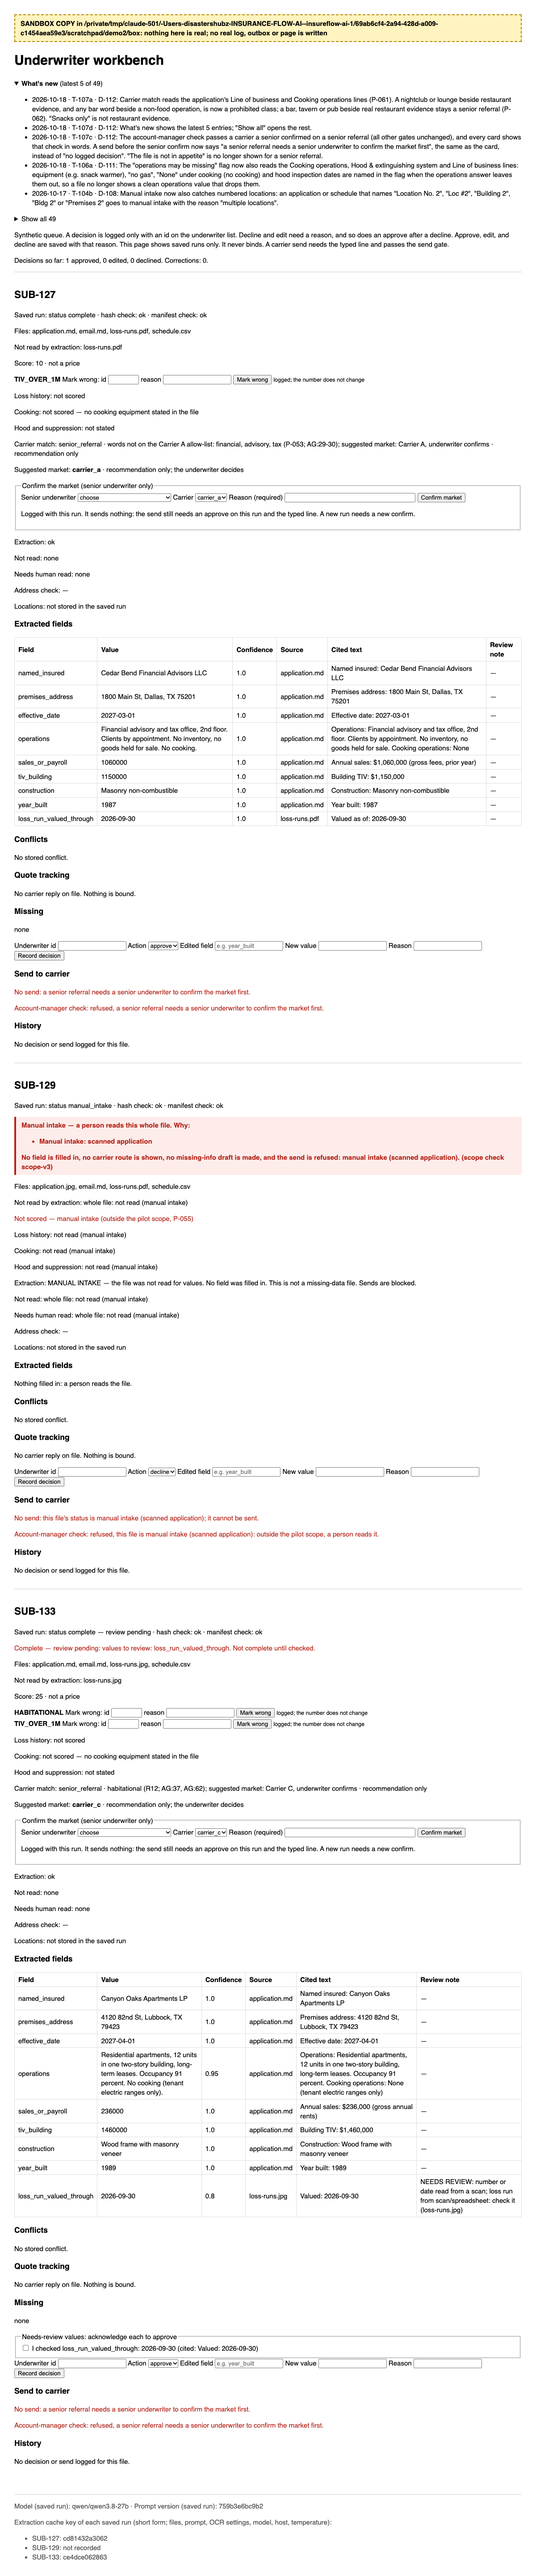
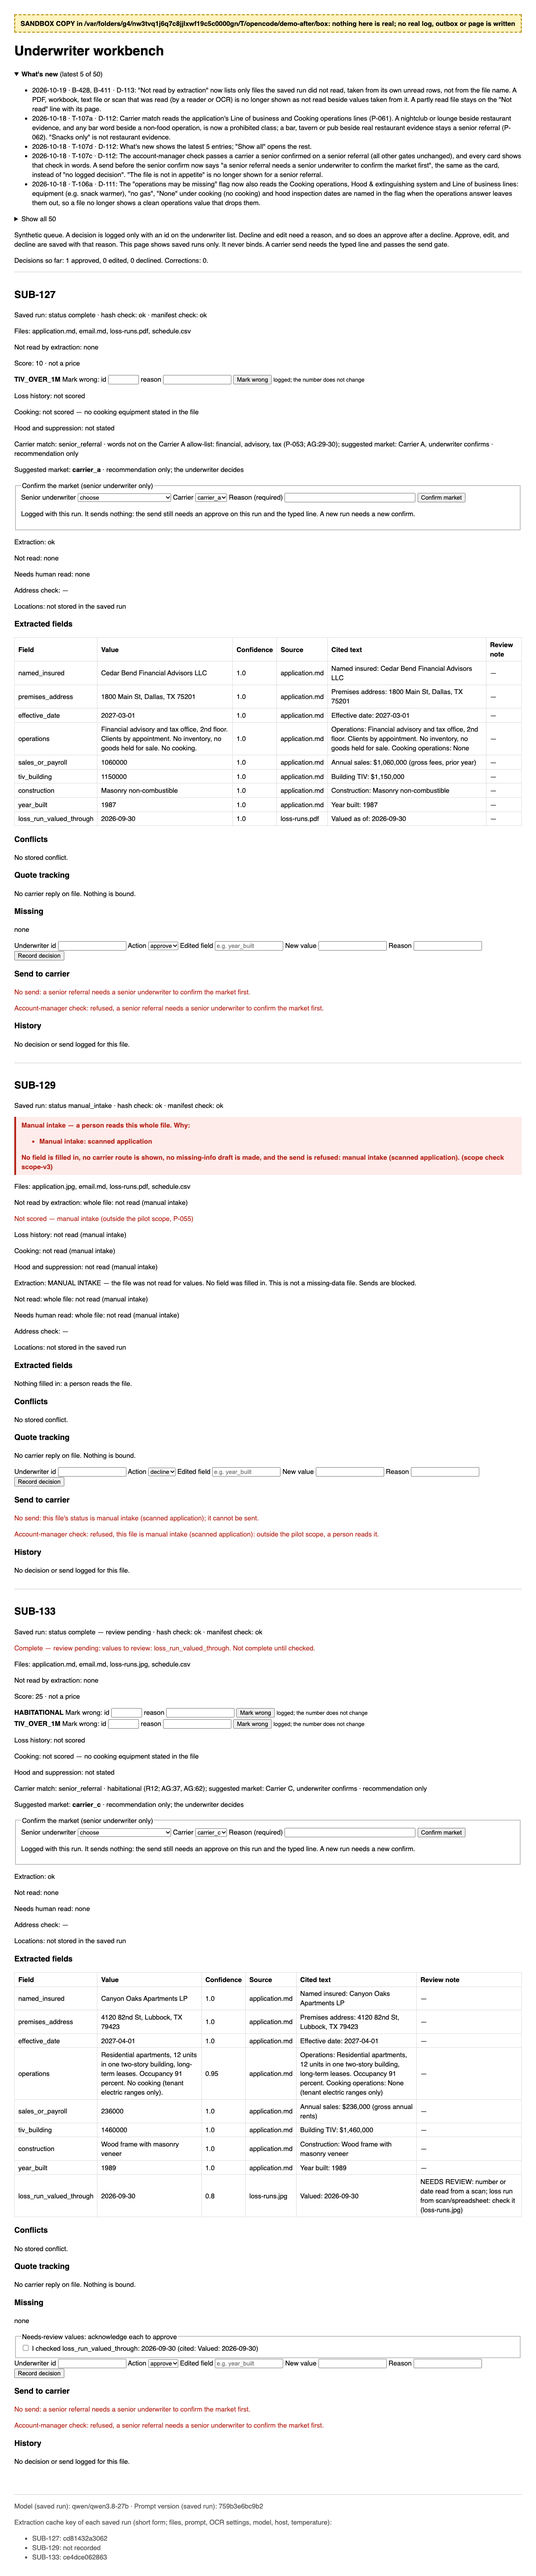
2026-10-19: code freeze for T-108 hold-out. B-428/B-411 fixed: the workbench "Not read by extraction" line now reads the saved run's unread rows (whole file) through helper not_read_by_extraction, never the file name, so a read PDF/workbook/scan (SUB-184 application.pdf, SUB-127/133 loss-runs.*) is 

Changed region(s): [[0.0308, 0.0, 0.9558, 0.0937]]

diff --git a/underwriting_pipeline/app/workbench.py b/underwriting_pipeline/app/workbench.py
@@ -41,6 +41,10 @@ BANNER = ""  # set by serve(); the sandbox screenshots label the page with it
 MESSAGES: dict[str, tuple[bool, str]] = {}  # submission -> (ok, plain-words result of the last action); shown once
 # D-065 item 5: one line per user-visible feature: date, task or proposal, decision number, what an underwriter sees.
 WHATS_NEW = (
+    ("2026-10-19", "B-428, B-411", "D-113",
+     "\"Not read by extraction\" now lists only files the saved run did not read, taken from its own unread rows, "
+     "not from the file name. A PDF, workbook, text file or scan that was read (by a reader or OCR) is no longer "
+     "shown as not read beside values taken from it. A partly read file stays on the \"Not read\" line with its page."),
     ("2026-10-18", "T-107a", "D-112", "Carrier match reads the application's Line of business and Cooking operations lines (P-061). A nightclub or lounge beside restaurant evidence, and any bar word beside a non-food operation, is now a prohibited class; a bar, tavern or pub beside real restaurant evidence stays a senior referral (P-062). \"Snacks only\" is not restaurant evidence."),
     ("2026-10-18", "T-107d", "D-112", "What's new shows the latest 5 entries; \"Show all\" opens the rest."),
     ("2026-10-18", "T-107c", "D-112", "The account-manager check passes a carrier a senior confirmed on a senior referral (all other gates unchanged), and every card shows that check in words. A send before the senior confirm now says \"a senior referral needs a senior underwriter to confirm the market first\", the same as the card, instead of \"no logged decision\". \"The file is not in appetite\" is no longer shown for a senior referral."),
@@ -142,6 +146,19 @@ REFERRAL = (
 )
 NOT_READ = "Not read — extraction failed"  # D-079 (B-295)
 MI_NOT_READ = "whole file: not read (manual intake)"  # P-055 (T-104a UI H1)
+
+
+def not_read_by_extraction(report: dict | None, files: list[str]) -> list[str]:
+    """B-428 (D-113): files extraction did not read, for the "Not read by extraction" line.
+    The saved run's unread rows are the log of record: a .pdf, .xlsx, .txt or scan is read by a reader or OCR, so its
+    name alone never means it was skipped (the old `.md`/`.csv` name test named a pdf that gave values, B-411/B-428).
+    A partly read file (some pages unread) is not listed here; the "Not read" line carries that page.
+    Only a run saved before unread rows existed (no key at all) falls back to the old name test."""
+    if report is not None and "unread" in report:
+        return sorted({row.get("file") for row in report["unread"] or [] if row.get("page") is None and row.get("file")})
+    return sorted(name for name in files if not name.endswith((".md", ".csv")))
+
+
 NEVER_SOFT = ("nightclub", "nightclubs", "lounge", "lounges")  # P-062 (D-112): R1 even beside restaurant evidence; bar, tavern, pub stay R2 there
 SNACKS = ("pre-packaged snacks only", "prepackaged snacks only", "pre packaged snacks only", "snacks only", "snack warmer")  # P-062 (b): not restaurant evidence
 EQUIP = ("fryer", "fryers", "deep fryer", "deep fryers", "burner", "burners", "flat-top", "flat top", "griddle", "charbroiler", "char-broiler",
@@ -353,7 +370,7 @@ def load_queue(only: str | None = None) -> list[dict]:
         report, problem = saved_report(folder.name)
         report = package.with_resolutions(report, folder.name) if report is not None else None  # B-324: logged resolutions on this run
         files = sorted(p.name for p in folder.iterdir() if p.is_file())
-        ignored = [name for name in files if not name.endswith((".md", ".csv"))]
+        ignored = not_read_by_extraction(report, files)  # B-428 (D-113)
         row = {"id": folder.name, "report": report, "saved_problem": problem, "files": files, "ignored": ignored}
         if report is not None:
             row.update(
@@ -1413,6 +1430,14 @@ if __name__ == "__main__":
         pf = render([flagged], None)
         assert "NEEDS REVIEW: number or date read from a scan" in pf and "Built 1942" in pf and 'name="ack" value="year_built"' in pf
         assert "a.pdf, page 2: blank" in pf and "b.docx, whole file:" in pf
+        # B-428 (D-113): the "Not read by extraction" list comes from the saved run's unread rows, never from the file name.
+        assert not_read_by_extraction({"unread": []}, ["application.pdf", "loss-runs.jpg", "email.md"]) == [], "a read pdf or jpg is not 'not read' (SUB-184, SUB-127/133)"
+        assert not_read_by_extraction({"unread": [{"file": "a.pdf", "page": 2, "reason": "blank"}]}, ["a.pdf"]) == [], "a partly read file belongs on the Not read line, not here"
+        assert not_read_by_extraction({"unread": [{"file": "b.docx", "page": None, "reason": "file type .docx is not read"}]}, ["b.docx"]) == ["b.docx"]
+        assert not_read_by_extraction(None, ["a.pdf", "a.md"]) == ["a.pdf"], "only a run with no unread rows at all falls back to the name test"
+        flagged["ignored"] = not_read_by_extraction(flagged["report"], [])
+        pf_unread = render([flagged], None).split("<article", 1)[1]
+        assert "<p>Not read by extraction: b.docx</p>" in pf_unread and "<p>Not read by extraction: a.pdf</p>" not in pf_unread, pf_unread[:900]
         assert 'name="ack"' not in page_ok
         # T-087: the card shows the quote status per carrier and SUB-002's open subjectivity.
         sub2 = card("complete", fields=[{"field_id": "operations", "value": "restaurant"}])

diff --git a/deliverables/ai-engineer/b-427-silent-errors-and-ops-flags.md b/deliverables/ai-engineer/b-427-silent-errors-and-ops-flags.md
@@ -1,0 +1,53 @@
+# B-427: the 9 dev silent errors and the operations flag drop (5/16 → 1/41)
+
+Author: @ai-engineer-assistant (orchestrator session). Dev data only; not a hold-out; not a production approval (T-027 veto stands).
+Method: scorer v5 read-only re-score of SUB-154–173 from the saved B-415 replies, 0 model calls (`HOLDOUT_RESCORE=1`, temp cache copy in `LLM_CACHE_DIR`, temp `HOLDOUT_OUT`). Reproduced the B-415 row exactly (silent 9/180, automation 64.4%). The old-reply column was reproduced with `llm_extract.PROMPT_VERSION` set to the pre-P-059 `b025802c0dfa` in a temp script; `llm_extract._post` denied so no call can happen. Worktree git status clean (D-069).
+
+## 1. The 9 silent errors — all are the `operations` field, all are (a)
+
+All nine are `operations`: SUB-156, 157, 158, 159, 160, 165, 167, 171, 173 (9 of 20 files, 9 of 180 scored values). Silent = a value is shown, the scorer counts it wrong, and nothing flags it.
+
+Dev gold SUB-154–173 has **no `- Operations items:` line**, so scorer v5 scores these files by the v4 word rule: *every gold word must appear in the answer*. That is the pre-D-103 convention. Under the current rules (`operations-gold-rule.md`, "Operations checklist", D-103 item 3) an items line is written and **connectors ("under") and business words the documents do not use ("taqueria", "apartment building") are not items**. Every answer below carries every item the documents state; only the gold's own wording differs.
+
+| SUB | gold word(s) not in the answer | documents say | why the scorer calls it wrong | why no flag fired |
+|---|---|---|---|---|
+| SUB-156 | `under` | "Flat-top, 2 fryers, 4-burner range, Type I hood with UL 300 suppression" | connector, required by the v4 word rule, not an item | check correctly found no rule item missing |
+| SUB-157 | `under` | "…pizza oven. Type I hood with UL 300 system, serviced 2026-08." | connector | same |
+| SUB-159 | `under` | "Deck oven, 2 convection ovens, 4-burner range, flat-top, Type I hood with UL 300" | connector | same |
+| SUB-171 | `under` | (same shape as SUB-157, resend) | connector | same |
+| SUB-158 | `apartment`, `building`, `operations` | Line of business "habitational"; Operations "Residential apartments, 16 units in two two-story buildings, long-term leases. Occupancy 93 percent."; Cooking "None (tenant electric ranges only)" | gold says "Apartment building … no cooking operations"; the documents say "Residential apartments" and "None" | check correctly found no rule item missing |
+| SUB-160 | `apartment`, `building`, `operations` | same shape, 8 units, occupancy 88 percent | same | same |
+| SUB-167 | `apartment`, `building`, `operations` | same shape, 24 units, occupancy 90 percent | same | same |
+| SUB-173 | `taqueria` | Line of business "retail food"; Operations "Counter service. Tacos, burritos, quesadillas and agua fresca…" | gold says "Counter service taqueria"; the documents never say "taqueria" | check correctly found no rule item missing |
+| SUB-165 | `june`, `july` | Operations "…storefront and seasonal tent." ; the months are in `email.md` ("seasonal tent June and July") | gold adds "(June and July)"; months are not a required item or on the closed list ("Anything not on this list is not required") | check correctly found no rule item missing |
+
+Concrete answers (shown values, from the new replies):
+
+- SUB-156 `Restaurant. Breakfast and lunch counter service, 48 seats, dine-in and takeout. No alcohol of any kind. Flat-top, 2 fryers, 4-burner range, Type I hood with UL 300 suppression, hood cleaned 2026-07` — gold: `Restaurant, no alcohol of any kind, 48 seats, flat-top, 2 fryers and 4-burner range under Type I hood with UL 300 suppression, breakfast and lunch counter service, dine-in and takeout`.
+- SUB-158 `Residential apartments, 16 units in two two-story buildings, long-term leases. Occupancy 93 percent. No cooking (tenant electric ranges only).` — gold: `Apartment building, 16 units in two two-story buildings, long-term leases, no cooking operations (tenant electric ranges only)`.
+- SUB-165 `Retail sale of consumer fireworks (aerial, ground and cakes), storefront and seasonal tent. Fireworks inventory stored on premises, including in a trailer on the lot. No cooking.` — gold: `…storefront and seasonal tent (June and July)…`.
+- SUB-173 `Counter service. Tacos, burritos, quesadillas and agua fresca, 35 seats, dine-in and takeout. No liquor.` — gold: `Counter service taqueria (tacos, burritos, quesadillas, agua fresca), no liquor, 35 seats, dine-in and takeout`.
+
+**Class: 9 of 9 are (a) dev gold out of date with the current rules** (gold written before the D-102/D-103 operations-items convention, so the v4-words fallback requires connectors, reworded business words and non-listed details). **0 are (b) real check gaps**: in every case the P-059 whole-document check (`ops_missing_all`) correctly found nothing missing.
+
+This matches the rule's own examples: `operations-gold-rule.md` names exactly "under", "taqueria" and "apartment building" as things that must not be items.
+
+## 2. The operations flag drop (5/16 → 1/41)
+
+The flag is `prepare.check_operations`: operations gets `needs_review` with "operations may be missing: …" when a labeled line or rule item in the cited document is absent from the answer.
+
+| Set | Flagged files | Reason |
+|---|---|---|
+| Old replies, the 16 files with an old reply (SUB-027 + 15 of SUB-154–173 that call) | **5 of 16**: SUB-154, 161, 162, 164, 165 | "operations may be missing: no cooking" |
+| New replies, same 16 | **0 of 16** | — |
+| New replies, all 41 files that call (quick 5 + dev 36) | **1 of 41**: SUB-134 | "operations may be missing: on-site processing" |
+
+Cause of the drop: the old prompt answered with the "Operations:" line only, so the extractor dropped the **"Cooking operations: None"** statement, and the check fired on each such file. P-059 now carries the labeled cooking/hood/LOB lines: every old-flag file's answer gained `No cooking.` and the flag cleared. Example (SUB-162): old `Office suite. Clients by appointment. No inventory.` → new `… No inventory. No cooking.`
+
+The one remaining flag, SUB-134, is a **true positive, safe direction**: the Line of business line says "light manufacturing" and the answer says "Glass cutting, tempering and framing for commercial storefronts…" without the word manufacturing/processing, so the check asks for a human look. Flagging is the conservative side; it is not a gap.
+
+Note: the B-415 report's new-reply column read "1 of 16". Measured, the 16-file column is **0 of 16**; the 1 is SUB-134, which is outside that 16 and is the only flag across all 41 new files. The 1/41 figure stands; the "of 16" label in that cell is a wording slip now corrected here.
+
+## 3. Conclusion for this session
+
+No real gap in operations, so **no P-### is needed** and step 3 (build T-105) may proceed. The operations silent errors are dev-gold-age artifacts; the check behaved correctly in all 9. The dev gold for SUB-154–173 is not rewritten (D-020: published data is never rewritten); the lesson goes to the next gold set, which T-105 writes under the current checklist convention.

diff --git a/team/BACKLOG.md b/team/BACKLOG.md
@@ -428,7 +428,7 @@ Also open from T-097, already in the register's Section D so not repeated as row
 | B-408 | D-109 | @model-risk | High (T-027 memo on T-104, H3): loss runs 9/20: every T-104 carrier run is valued after the run date (producer set valued = 45 days before a 2027 effective date), so none is accepted; scorer v6 marks "null, needs review" a miss (17/20 even if credited). Next hold-out: runs valued before the run date (build rule); scorer rule needs an approved P-###. | 2026-10-17 |
 | B-409 | D-109 | @ai-engineer-assistant | T-104 as-is mismatch classes (SUB-174-205-holdout-v6-mismatches.md): gold convention 17, extraction 8, scorer 5, check 4, routing rule 4; status automation 0 of 9 gold-complete files shown plain "complete". Candidate items per class in that file. | 2026-10-17 |
 | B-410 | D-110 | @software-engineer | Medium (T-105 demo): workbench "What's new" panel (45 entries) is open at the top of every page; the card starts far below. Collapse by default. Screens doc problem 1. | 2026-10-18 |
-| B-411 | D-110 | @software-engineer | Medium (T-105): "Not read by extraction: loss-runs.*" shown next to a loss-run value read from that same file (SUB-127, SUB-133). Problem 2. | 2026-10-18 |
+| B-411 | D-110 | @software-engineer | Medium (T-105): "Not read by extraction: loss-runs.*" shown next to a loss-run value read from that same file (SUB-127, SUB-133). Problem 2. Fixed 2026-10-19 (D-113): the line reads the saved run's unread rows (whole file), never the file name; demo cards retaken. | 2026-10-18 |
 | B-412 | D-110 | @software-engineer | Medium (T-105): account-manager send gate has no workbench screen; its refusal "the file is not in appetite" is wrong in meaning for a senior referral; send-before-approve refusal text disagrees with the card's send panel order. Problems 4, 5. | 2026-10-18 |
 | B-413 | D-110 | @software-engineer | Low (T-105): senior-confirm banner shown twice; stale needs-review/decision forms after send; page-wide "Decisions so far" counter; 3.7-4.9k px cards; SUB-131 card prints raw conflict data and keeps offering a producer draft after the conflict is resolved. Problems 3, 6, 8, 9. | 2026-10-18 |
 | B-414 | D-110 | @senior-underwriter | Low (T-105): no dev file with saved replies routes carrier_a direct on frozen 6e7cfa2 (dev gold predates P-051/P-053/P-054), so the demo shows quotes only via senior referral. | 2026-10-18 |
@@ -445,4 +445,4 @@ Also open from T-097, already in the register's Section D so not repeated as row
 | B-425 | D-112 | @senior-underwriter | Medium (T-107 UI check): P-061 note leads with "P-061" and does not name the class word; green "passes" line shows beside "Approve first"/"Re-review"; no single "ready for account manager" state; refusal reason shown twice; What's new open by default. | 2026-10-18 |
 | B-426 | D-112 | @ai-engineer-assistant | Low (model-risk L2/L3 on T-107c): a TIV-held file still shows "not in appetite" in the AM check; unusual equipment negations ("fryers none installed") not covered. | 2026-10-18 |
 | B-427 | D-112 | @ai-engineer-assistant | Medium (B-415): route 24/47 on dev SUB-127–173 is against dev gold that predates P-049..P-062 (11 no-call files counted as misses); silent errors 8→9 on SUB-154–173 not yet traced to a field; no cached dev file has the SUB-174/182/186/201 shape, so P-061/P-062 are covered by synthetic checks only. Driver end-of-run failure counter disagrees with per-file rows. | 2026-10-18 |
-| B-428 | D-112 | @software-engineer | Medium (T-107e): SUB-184 card shows "Not read by extraction: application.pdf" next to values read from that file (same as B-411). | 2026-10-18 |
+| B-428 | D-112 | @software-engineer | Medium (T-107e): SUB-184 card shows "Not read by extraction: application.pdf" next to values read from that file (same as B-411). Fixed 2026-10-19 (D-113) with B-411: helper `not_read_by_extraction` in `underwriting_pipeline/app/workbench.py` reads the saved run's unread rows; self-check added; 0 live calls; demo PNGs retaken. | 2026-10-18 |

diff --git a/team/TASKS.md b/team/TASKS.md
@@ -1707,3 +1707,17 @@ D-004 (user, 2026-10-09): Sanger & Altgelt agency pipeline. Eight steps. No auto
 
 ### T-107g — Second rehearsal with run-demo.sh; demo-guide.md and screenshots updated
 - Owner: @senior-test-engineer (rehearsal), @pm (guide), @software-engineer (screenshots) · Status: TODO · Decision: D-112
+
+### T-108 — Next hold-out: 20 in-scope + 12 out-of-scope, gold first, no run
+- Owner: @producer (submission files, mix), @senior-underwriter (gold, mix, routes), @senior-test-engineer (plan JSON lint) · Status: IN_PROGRESS · Decision: D-113
+- Requested by: @user, 2026-10-19 (session answers: full build, task id T-108, commit the code freeze first)
+- Acceptance criteria:
+  - [ ] Code frozen first: the B-428/B-411 workbench fix and this board are committed on `ai-team`; the task records that git SHA, prompt version 759b3e6bc9b2 (P-059) and scorer v7 as the code under test. No pipeline change after the freeze without a new freeze note.
+  - [ ] 32 new submission files written under `simulation/inbox/` as SUB-206 to SUB-237 (nothing reused from dev or T-104), no extraction, no model call, nothing run. 20 in-scope, 12 out-of-scope covering proposal-P-055 criteria 1-4 (scanned application, multiple locations, non-English, no application identified): 4 / 5 / 4 / 2 with 3 files carrying two criteria and 2 carrying criterion 4 alone, as in T-104.
+  - [ ] Build rules from the T-027 gate memo (D-109, resolution 2): every carrier loss run valued before the run date (use a run date of 2026-10-19 or later, so value them before today), at least two held W1 (prohibited-class) files, at least two office-lessor / deli-style class files.
+  - [ ] `deliverables/producer/T-108-mix.md` (mix, written before gold) and `deliverables/senior-test-engineer/T-108-plan.json` (ids, in, out, per_criterion, two_criteria, criterion_4, routes) with routes stated under the current rules (P-049..P-062, merged W1/W1b table), and `undated_loss_runs` declared for every typed loss run that has no valued date (B-424).
+  - [ ] Gold first: 20 in-scope gold files under `deliverables/senior-underwriter/gold-set/SUB-206*.md`.. written by hand from the documents and the written rules only (proposal-P-055.md criteria 1-4, carrier-match.md, operations-gold-rule.md D-102/D-103, carrier-loss-run-formats.md, required-fields.md) — no pipeline, scope detector, extraction, OCR script or scorer run or read. Every gold card has a `- Scope:` line and an `- Operations items:` line; empty fields say `not in documents`; no route is "hold". The 12 out-of-scope gold files carry the `- Scope:` line and the criteria codes only.
+  - [ ] Lint passes before the gold freeze: `.venv/bin/python deliverables/senior-test-engineer/lint_holdout.py deliverables/senior-test-engineer/T-108-plan.json --run-date 2026-10-19` exits 0. Any FAIL line is fixed in the files or the plan, never in the lint.
+  - [ ] Gold frozen: a freeze note in the mix records the gold SHA/hash and the code SHA above. The pipeline is **not** run on T-108 and no score exists (D-020: gold first, run once, score once, at a later session with the user's approval).
+  - [ ] @model-risk checks the build (High only) before it is called frozen: mix vs plan vs gold counts, loss-run dates, W1 and office-lessor/deli coverage, gold-first integrity, D-069 (nothing real written by a test run).
+
